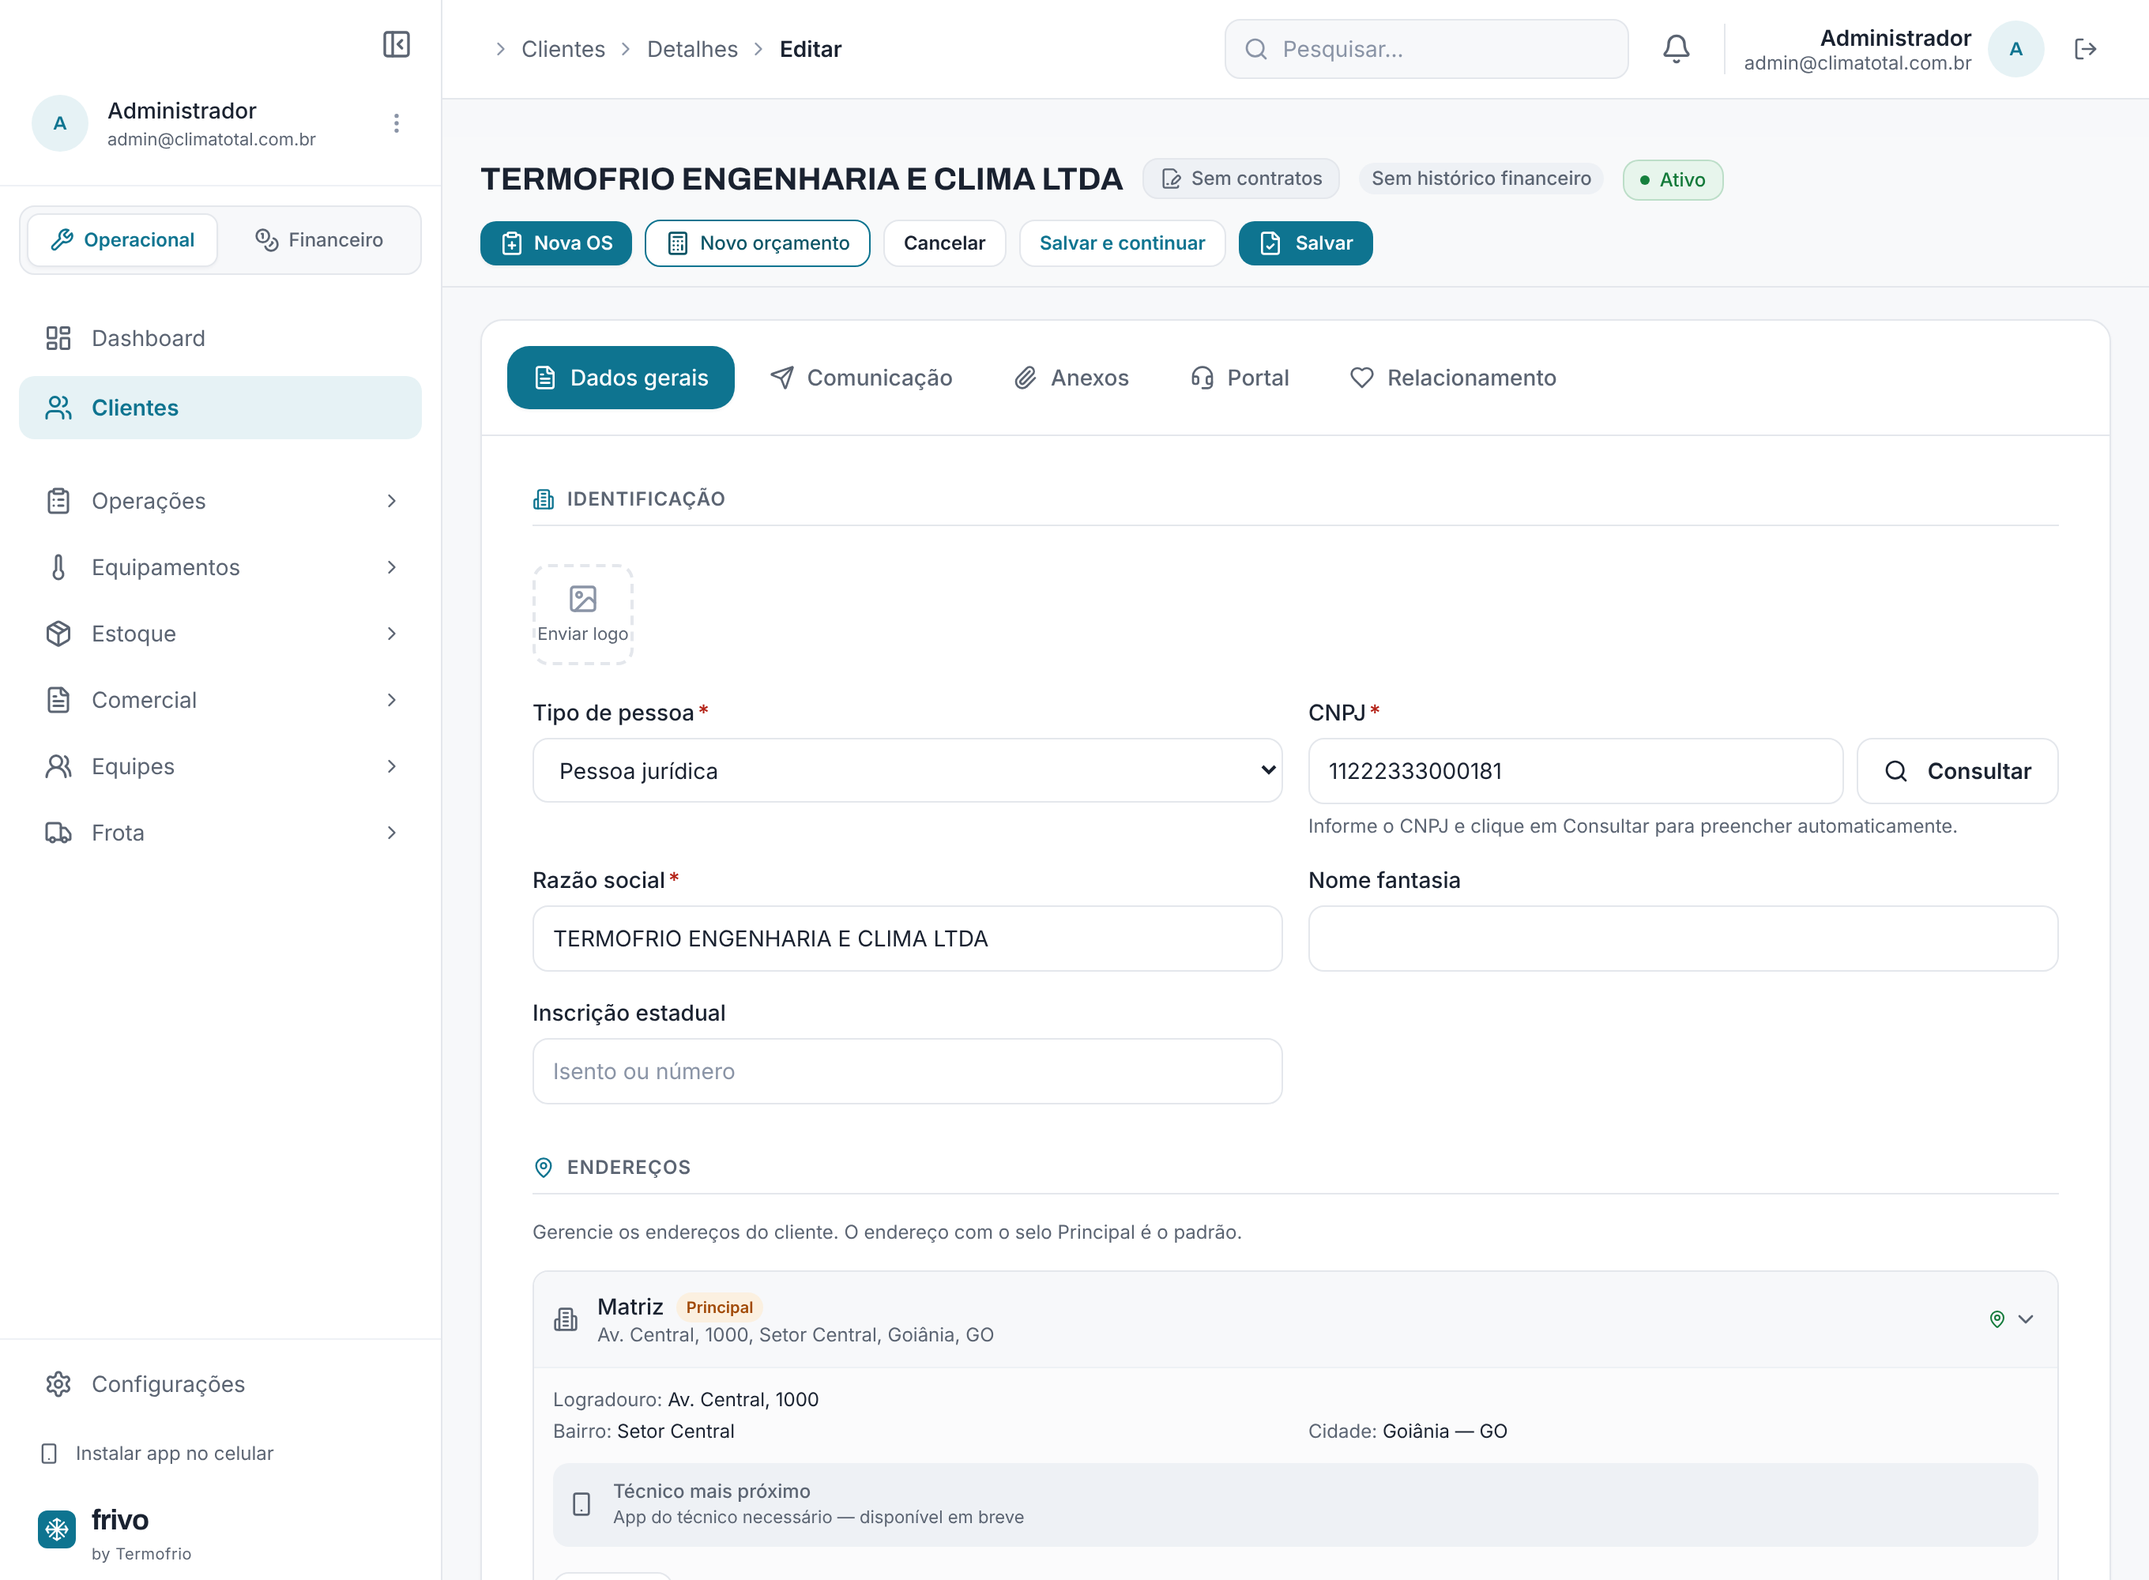
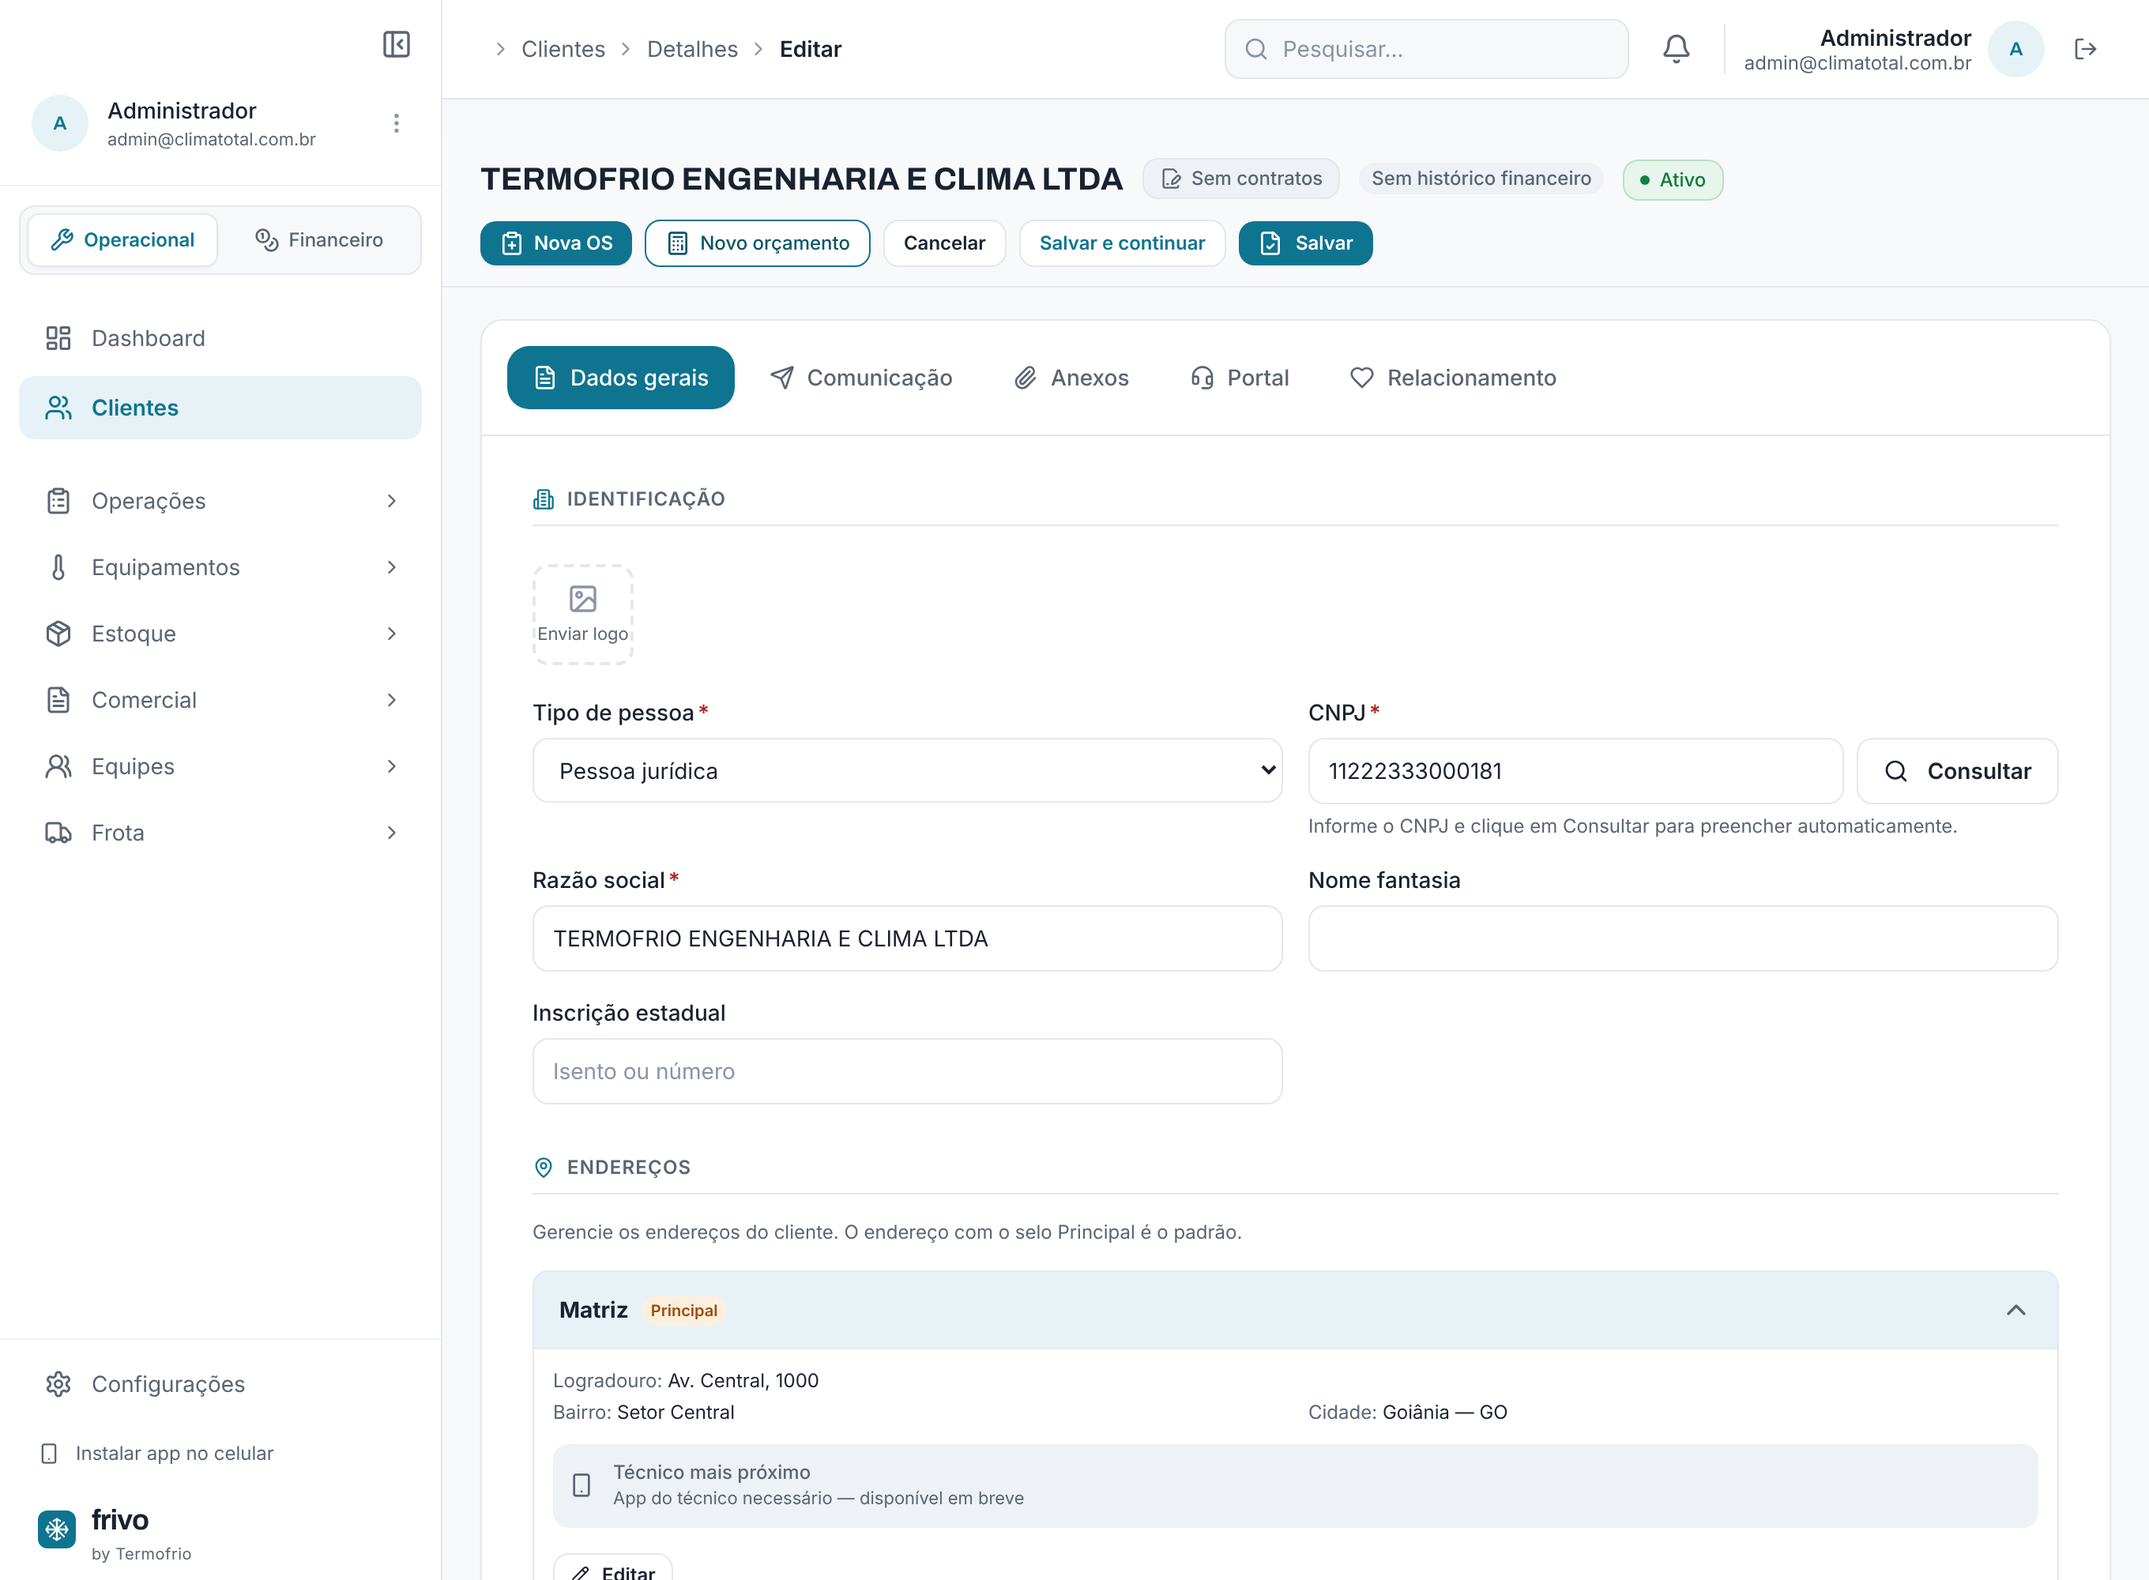
Cliente › Endereços: caixas com fundo suave (acordeão) conforme referência
Cada endereço vira uma caixa arredondada com fundo suave (bg-frivo-50):
só o nome em negrito e o selo Principal no cabeçalho, com seta que gira ao
abrir e painel branco expandindo pra baixo com todos os dados. Vale para o
cliente novo (UnidadesLocal) e para a edição (UnidadesManager, que mantém o
selo de distância da empresa no cabeçalho). Sem ícone de estrela.

- Remove ícones Building2/MapPin/ChevronRight e a linha de resumo do endereço
- Teste do autofill expande a caixa Matriz antes de checar os dados
- Prints (desktop e celular) regerados: sem o bloco de status removido, com a
  nova dica e as caixas de endereço

Claude-Session: https://claude.ai/code/session_01NogQSnn1DhMU16avoGcmWJ

Changed region(s): [[0.25, 0.806, 0.4688, 0.961], [0.625, 0.868, 0.6562, 0.93], [0.25, 0.992, 0.3125, 1.0]]

diff --git a/components/forms/unidades-manager.tsx b/components/forms/unidades-manager.tsx
@@ -12,8 +12,8 @@ import { MapaEndereco } from "@/components/ui/mapa-endereco";
 import { EnderecoAutocomplete, type EnderecoSelecionado } from "@/components/ui/endereco-autocomplete";
 import { haversine, formatarDistancia } from "@/lib/geo";
 import type { Unidade } from "@prisma/client";
-import { Plus, Pencil, Trash2, X, Check, Building2, ChevronDown, ChevronRight, MapPin, Navigation, Smartphone, Search } from "lucide-react";
-import { comparaNatural } from "@/lib/utils";
+import { Plus, Pencil, Trash2, X, Check, ChevronDown, Navigation, Smartphone, Search } from "lucide-react";
+import { cn, comparaNatural } from "@/lib/utils";
 
 const ESTADOS_BR = [
   "AC","AL","AP","AM","BA","CE","DF","ES","GO","MA","MT","MS","MG",
@@ -248,9 +248,6 @@ export function UnidadesManager({ clienteId, unidadesIniciais, enderecoCliente, 
     return comparaNatural(a.nome, b.nome);
   });
 
-  function enderecoTexto(u: Unidade): string {
-    return [u.logradouro, u.numero, u.bairro, u.cidade, u.estado].filter(Boolean).join(", ") || "Sem endereço";
-  }
 
   function renderFormInline() {
     return (
@@ -335,45 +332,34 @@ export function UnidadesManager({ clienteId, unidadesIniciais, enderecoCliente, 
         <p className="text-sm text-ink-muted py-2">Nenhum endereço cadastrado.</p>
       )}
 
-      {ordenadas.length > 0 && (
-      <div className="rounded-lg border border-surface-border divide-y divide-surface-linha overflow-hidden">
       {ordenadas.map((u) => {
-        if (editando === u.id) return <div key={u.id} className="p-3 bg-surface-page/40">{renderFormInline()}</div>;
+        if (editando === u.id) return <div key={u.id}>{renderFormInline()}</div>;
         const aberto = expandido.has(u.id);
         const temEnd = !!(u.logradouro && u.cidade && u.estado);
         const dist = calcDistancia(u);
 
         return (
-          <div key={u.id} className="overflow-hidden">
+          <div key={u.id} className="rounded-lg border border-surface-border overflow-hidden">
             <button type="button" onClick={() => toggleExpand(u.id)}
-              className="flex items-center justify-between w-full p-3 text-left hover:bg-surface-page transition-colors">
-              <div className="flex items-center gap-3 min-w-0">
-                <Building2 className="w-4 h-4 text-ink-muted shrink-0" />
-                <div className="min-w-0">
-                  <div className="flex items-center gap-2 flex-wrap">
-                    <span className="text-sm font-medium text-ink">{u.nome}</span>
-                    {u.principal && (
-                      <span className="inline-flex items-center text-[10px] font-semibold bg-atencao-claro text-atencao-texto px-1.5 py-0.5 rounded-full">
-                        Principal
-                      </span>
-                    )}
-                    {dist && (
-                      <span className="inline-flex items-center gap-0.5 text-[10px] font-medium bg-acento-claro text-acento px-1.5 py-0.5 rounded-full">
-                        <Navigation className="w-2.5 h-2.5" /> {dist} da empresa
-                      </span>
-                    )}
-                  </div>
-                  <p className="text-xs text-ink-muted truncate">{enderecoTexto(u)}</p>
-                </div>
+              className={cn("flex items-center justify-between w-full px-4 py-3.5 text-left transition-colors", aberto ? "bg-frivo-50" : "bg-frivo-50/60 hover:bg-frivo-50")}>
+              <div className="flex items-center gap-2 min-w-0 flex-wrap">
+                <span className="text-sm font-bold text-ink truncate">{u.nome}</span>
+                {u.principal && (
+                  <span className="inline-flex items-center text-[10px] font-semibold bg-atencao-claro text-atencao-texto px-1.5 py-0.5 rounded-full shrink-0">
+                    Principal
+                  </span>
+                )}
+                {dist && (
+                  <span className="inline-flex items-center gap-0.5 text-[10px] font-medium bg-acento-claro text-acento px-1.5 py-0.5 rounded-full shrink-0">
+                    <Navigation className="w-2.5 h-2.5" /> {dist} da empresa
+                  </span>
+                )}
               </div>
-              <div className="flex items-center gap-1 shrink-0">
-                {temEnd && <MapPin className="w-3 h-3 text-ok-texto" />}
-                {aberto ? <ChevronDown className="w-4 h-4 text-ink-muted" /> : <ChevronRight className="w-4 h-4 text-ink-muted" />}
-              </div>
+              <ChevronDown className={cn("w-5 h-5 text-ink-muted shrink-0 transition-transform", aberto && "rotate-180")} />
             </button>
 
             {aberto && (
-              <div className="border-t border-surface-linha p-3 space-y-3 bg-surface-page/50">
+              <div className="border-t border-surface-border p-3 space-y-3 bg-white">
                 <div className="grid grid-cols-2 gap-x-4 gap-y-1 text-xs">
                   {u.logradouro && <div className="col-span-2"><span className="text-ink-muted">Logradouro:</span> <span className="text-ink">{u.logradouro}{u.numero ? `, ${u.numero}` : ""}</span></div>}
                   {u.complemento && <div className="col-span-2"><span className="text-ink-muted">Complemento:</span> <span className="text-ink">{u.complemento}</span></div>}
@@ -417,8 +403,6 @@ export function UnidadesManager({ clienteId, unidadesIniciais, enderecoCliente, 
           </div>
         );
       })}
-      </div>
-      )}
 
       {editando === "novo" && renderFormInline()}
 

diff --git a/components/forms/unidades-local.tsx b/components/forms/unidades-local.tsx
@@ -9,8 +9,8 @@ import { Textarea } from "@/components/ui/textarea";
 import { FormField, FormGrid } from "@/components/ui/form-field";
 import { MapaEndereco } from "@/components/ui/mapa-endereco";
 import { EnderecoAutocomplete, type EnderecoSelecionado } from "@/components/ui/endereco-autocomplete";
-import { Plus, Pencil, Trash2, X, Check, Building2, ChevronDown, ChevronRight, MapPin, Search } from "lucide-react";
-import { comparaNatural } from "@/lib/utils";
+import { Plus, Pencil, Trash2, X, Check, ChevronDown, Search } from "lucide-react";
+import { cn, comparaNatural } from "@/lib/utils";
 
 const ESTADOS_BR = [
   "AC","AL","AP","AM","BA","CE","DF","ES","GO","MA","MT","MS","MG",
@@ -156,9 +156,6 @@ export function UnidadesLocal({ unidades, onChange }: UnidadesLocalProps) {
     return comparaNatural(a.nome, b.nome);
   });
 
-  function enderecoTexto(u: UnidadeLocal): string {
-    return [u.logradouro, u.numero, u.bairro, u.cidade, u.estado].filter(Boolean).join(", ") || "Sem endereço";
-  }
 
   function renderFormInline() {
     return (
@@ -241,39 +238,28 @@ export function UnidadesLocal({ unidades, onChange }: UnidadesLocalProps) {
         <p className="text-sm text-ink-muted py-2">Nenhum endereço adicionado. Adicione pelo menos o endereço principal.</p>
       )}
 
-      {ordenadas.length > 0 && (
-      <div className="rounded-lg border border-surface-border divide-y divide-surface-linha overflow-hidden">
       {ordenadas.map((u) => {
-        if (editando === u._tempId) return <div key={u._tempId} className="p-3 bg-surface-page/40">{renderFormInline()}</div>;
+        if (editando === u._tempId) return <div key={u._tempId}>{renderFormInline()}</div>;
         const aberto = expandido.has(u._tempId);
         const temEnd = !!(u.logradouro && u.cidade && u.estado);
 
         return (
-          <div key={u._tempId} className="overflow-hidden">
+          <div key={u._tempId} className="rounded-lg border border-surface-border overflow-hidden">
             <button type="button" onClick={() => toggleExpand(u._tempId)}
-              className="flex items-center justify-between w-full p-3 text-left hover:bg-surface-page transition-colors">
-              <div className="flex items-center gap-3 min-w-0">
-                <Building2 className="w-4 h-4 text-ink-muted shrink-0" />
-                <div className="min-w-0">
-                  <div className="flex items-center gap-2 flex-wrap">
-                    <span className="text-sm font-medium text-ink">{u.nome}</span>
-                    {u.principal && (
-                      <span className="inline-flex items-center text-[10px] font-semibold bg-atencao-claro text-atencao-texto px-1.5 py-0.5 rounded-full">
-                        Principal
-                      </span>
-                    )}
-                  </div>
-                  <p className="text-xs text-ink-muted truncate">{enderecoTexto(u)}</p>
-                </div>
+              className={cn("flex items-center justify-between w-full px-4 py-3.5 text-left transition-colors", aberto ? "bg-frivo-50" : "bg-frivo-50/60 hover:bg-frivo-50")}>
+              <div className="flex items-center gap-2 min-w-0">
+                <span className="text-sm font-bold text-ink truncate">{u.nome}</span>
+                {u.principal && (
+                  <span className="inline-flex items-center text-[10px] font-semibold bg-atencao-claro text-atencao-texto px-1.5 py-0.5 rounded-full shrink-0">
+                    Principal
+                  </span>
+                )}
               </div>
-              <div className="flex items-center gap-1 shrink-0">
-                {temEnd && <MapPin className="w-3 h-3 text-ok-texto" />}
-                {aberto ? <ChevronDown className="w-4 h-4 text-ink-muted" /> : <ChevronRight className="w-4 h-4 text-ink-muted" />}
-              </div>
+              <ChevronDown className={cn("w-5 h-5 text-ink-muted shrink-0 transition-transform", aberto && "rotate-180")} />
             </button>
 
             {aberto && (
-              <div className="border-t border-surface-linha p-3 space-y-3 bg-surface-page/50">
+              <div className="border-t border-surface-border p-3 space-y-3 bg-white">
                 <div className="grid grid-cols-2 gap-x-4 gap-y-1 text-xs">
                   {u.logradouro && <div className="col-span-2"><span className="text-ink-muted">Logradouro:</span> <span className="text-ink">{u.logradouro}{u.numero ? `, ${u.numero}` : ""}</span></div>}
                   {u.complemento && <div className="col-span-2"><span className="text-ink-muted">Complemento:</span> <span className="text-ink">{u.complemento}</span></div>}
@@ -307,8 +293,6 @@ export function UnidadesLocal({ unidades, onChange }: UnidadesLocalProps) {
           </div>
         );
       })}
-      </div>
-      )}
 
       {editando === "novo" && renderFormInline()}
 

diff --git a/tests/unit/cliente-cnpj-autofill-ui.test.ts b/tests/unit/cliente-cnpj-autofill-ui.test.ts
@@ -68,13 +68,16 @@ describe("Autofill do CNPJ no cliente novo", () => {
     const corpo = caixa.textContent ?? "";
     // razão social preenchida
     expect(($('input[name="nome"]') as HTMLInputElement).value).toBe("Termofrio Engenharia Ltda");
-    // endereço principal criado (card "Matriz" com a rua e a cidade)
+    // endereço principal criado (caixa "Matriz" — nome no cabeçalho, dados ao expandir)
     expect(corpo).toContain("Matriz");
-    expect(corpo).toContain("Avenida Central");
-    expect(corpo).toContain("Setor Central");
-    expect(corpo).toContain("Goiânia");
     // endereço principal + contato principal = 2 selos "Principal"
     expect(contarPrincipais()).toBe(2);
+    // expandindo a caixa do endereço, os dados da consulta aparecem
+    await clicar($$("button").find((b) => /Matriz/.test(b.textContent ?? "")));
+    const expandido = caixa.textContent ?? "";
+    expect(expandido).toContain("Avenida Central");
+    expect(expandido).toContain("Setor Central");
+    expect(expandido).toContain("Goiânia");
     // e o contato leva o e-mail da consulta (abrindo o card)
     const botaoContato = $$("button").find((b) => b.textContent === "Termofrio Engenharia Ltda" || /Termofrio Engenharia Ltda/.test(b.textContent ?? ""));
     // o e-mail está no estado do contato; o card colapsado mostra o nome + selo Principal

diff --git a/docs/cliente-dados-gerais.md b/docs/cliente-dados-gerais.md
@@ -44,10 +44,12 @@ Afinação da seção Identificação:
   linha no corpo da seção.
 - O aviso **"Dados encontrados na Receita Federal"** deixou de ser um painel: virou uma linha
   **discreta em verde** logo **acima** do campo de CNPJ (`data-cnpj-encontrado`), sem ocupar espaço.
-- **Endereços em lista (acordeão), não cartões:** os endereços viram uma lista única (uma borda,
-  linhas divididas) que **expande pra baixo** ao clicar, para ver todos os dados do endereço — melhor
-  quando há vários. O selo **Principal** perdeu o ícone de estrela (texto só, sem "emoji"). Vale para
-  o cliente novo (`UnidadesLocal`) e para a edição (`UnidadesManager`).
+- **Endereços em caixas (acordeão), não cartões:** cada endereço é uma **caixa arredondada com fundo
+  suave** (`bg-frivo-50`) — só o nome em negrito e o selo **Principal** no cabeçalho, com uma seta que
+  gira ao abrir. Clicar **expande pra baixo** (painel branco) para ver todos os dados do endereço —
+  melhor quando há vários. O selo **Principal** é texto só, sem ícone de estrela (sem "emoji"). Vale
+  para o cliente novo (`UnidadesLocal`) e para a edição (`UnidadesManager`, que mantém o selo de
+  distância "da empresa" no cabeçalho).
 
 ## Testes
 
